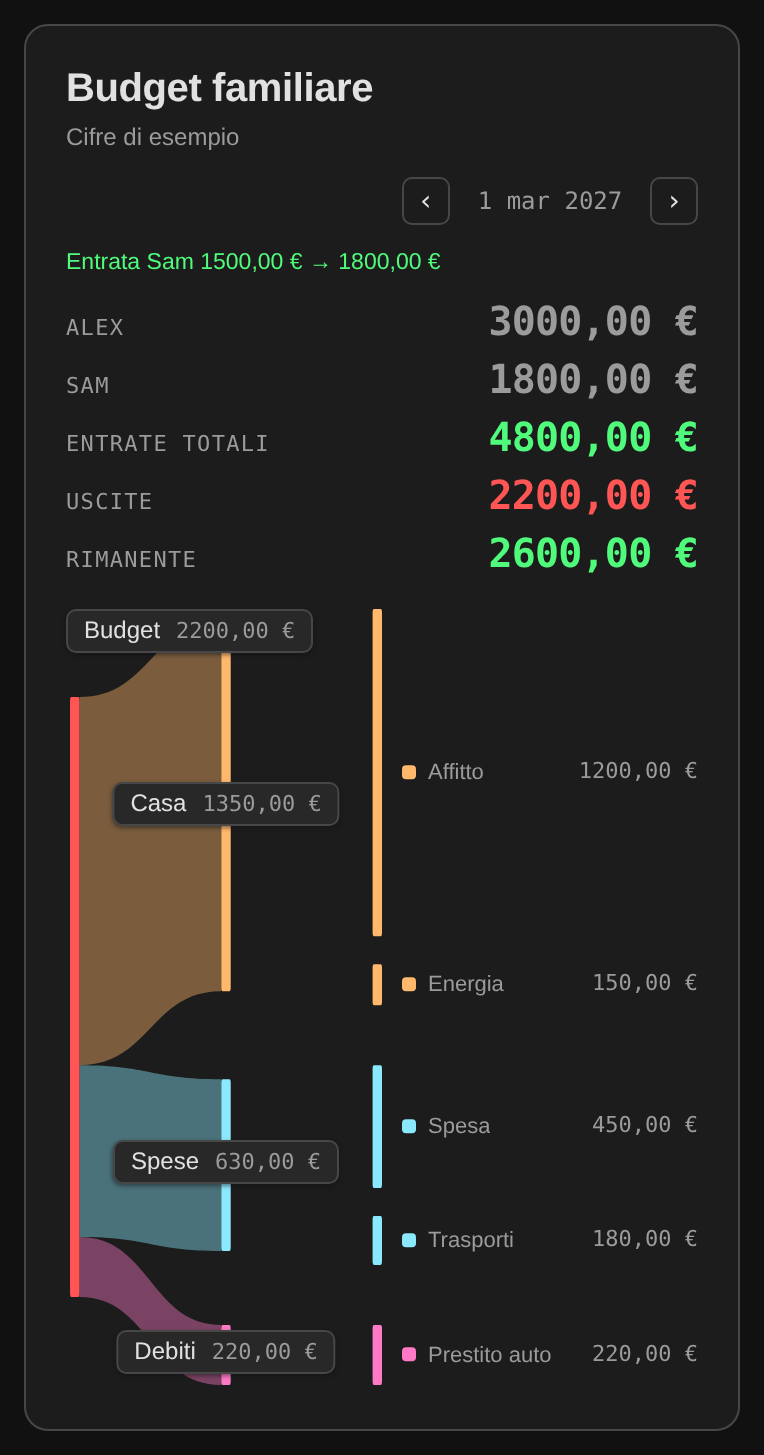
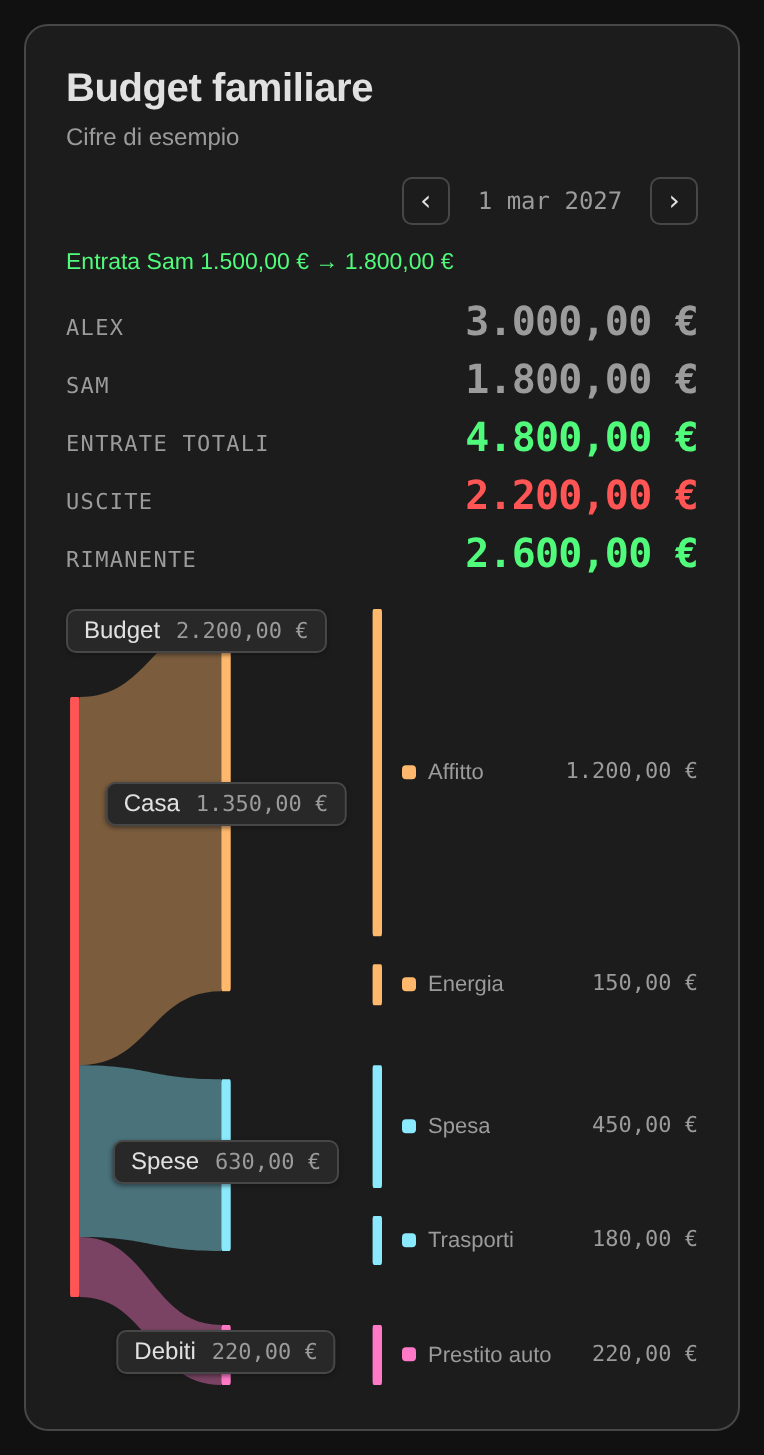
Tidy amounts and CJK rendering
Show the plain currency symbol and group four-digit amounts in every
locale. Declare the card's locale so browsers pick the right CJK glyphs,
keep short CJK titles on one line, and align stat labels across fallback
fonts.

diff --git a/budget-sankey-card.js b/budget-sankey-card.js
@@ -48,7 +48,11 @@ const FONT_MONO = themeVar("font_mono");
 // includes the first render, before `hass` is set.
 const DEFAULT_MONEY = { currency: "GBP", locale: "en-GB" };
 
-const fmt = (v, { currency, locale } = DEFAULT_MONEY) => v.toLocaleString(locale, { style: "currency", currency });
+// "always": locales such as Polish and Italian otherwise group 12 500 but not
+// 1800, which misaligns a column of amounts. narrowSymbol: the card shows one
+// currency, so £ needs no GBP or US$-style disambiguation, and it is shorter.
+const fmt = (v, { currency, locale } = DEFAULT_MONEY) =>
+  v.toLocaleString(locale, { style: "currency", currency, currencyDisplay: "narrowSymbol", useGrouping: "always" });
 
 // Accepts a palette token ("viz-5"), a semantic name ("money-out"), or any raw
 // CSS colour. Tokens keep the budget YAML free of hex codes.
@@ -809,7 +813,9 @@ class BudgetSankeyCard extends HTMLElement {
           overflow: hidden;
         }
         .head { display:flex; align-items:flex-end; justify-content:space-between; gap:16px; margin-bottom:16px; }
-        .title { margin:0; font:600 20px/1.3 ${FONT_DISPLAY}; letter-spacing:-.01em; }
+        /* CJK text can break after any character, so without a floor the stats
+           squeeze a title down to one character per line. */
+        .title { margin:0; min-width:4em; font:600 20px/1.3 ${FONT_DISPLAY}; letter-spacing:-.01em; }
         .side { display:flex; flex-direction:column; align-items:flex-end; gap:10px; }
         .log { margin:0; padding:0; list-style:none; font:500 11.5px/1.45 ${FONT_BODY}; text-align:right; }
         .nav { display:flex; align-items:center; gap:6px; font:500 12px ${FONT_MONO}; color:${VIZ.textSecondary}; }
@@ -822,7 +828,9 @@ class BudgetSankeyCard extends HTMLElement {
         .nav span { min-width:88px; text-align:center; }
         .sub { margin:4px 0 0; font:400 12px/1.3 ${FONT_BODY}; color:${VIZ.textSecondary}; }
         .stats { display:flex; gap:20px; flex-wrap:wrap; justify-content:flex-end; }
-        .totlab { font:500 11px ${FONT_MONO}; letter-spacing:.06em; color:${VIZ.textSecondary}; margin-bottom:4px; text-align:right; }
+        /* Fixed line height: a fallback CJK font is taller, which would drop
+           translated labels below the Latin names beside them. */
+        .totlab { font:500 11px/1.4 ${FONT_MONO}; letter-spacing:.06em; color:${VIZ.textSecondary}; margin-bottom:4px; text-align:right; }
         .tot { font:700 28px ${FONT_MONO}; letter-spacing:-.02em; color:${accent}; font-variant-numeric:tabular-nums; text-align:right; }
         .stats .tot.sm { font-size:22px; }
         .body { display:flex; align-items:stretch; width:100%; }
@@ -879,7 +887,7 @@ class BudgetSankeyCard extends HTMLElement {
           .stats .tot.sm { font-size:20px; }
         }
       </style>
-      <div class="card">
+      <div class="card" lang="${esc(money.locale)}">
         <div class="head">
           <div>
             <h2 class="title">${esc(c.title || t.budget)}</h2>

diff --git a/test/budget-sankey-card.core.test.js b/test/budget-sankey-card.core.test.js
@@ -456,6 +456,22 @@ test("a hass update that leaves the money settings alone does not redraw", () =>
   assert.equal(html(el), "untouched");
 });
 
+test("fmt groups four-digit amounts in every locale", () => {
+  assert.equal(fmt(1800, { currency: "PLN", locale: "pl" }), "1\u00a0800,00\u00a0zł");
+  assert.equal(fmt(1800, { currency: "EUR", locale: "it" }), "1.800,00\u00a0€");
+});
+
+test("fmt uses the plain currency symbol", () => {
+  assert.equal(fmt(1234.5, { currency: "GBP", locale: "pl" }), "1\u00a0234,50\u00a0£");
+  assert.equal(fmt(1234.5, { currency: "USD", locale: "sv" }), "1\u00a0234,50\u00a0$");
+  assert.equal(fmt(1234.5, { currency: "USD", locale: "en-GB" }), "$1,234.50");
+});
+
+test("the card declares its locale for font selection", () => {
+  const el = make(Object.assign(dated(), { locale: "zh-CN" }));
+  assert.match(html(el), /<div class="card" lang="zh-CN">/);
+});
+
 test("the changelog and navigation use the configured locale", () => {
   const el = make(Object.assign(dated(), { currency: "USD", locale: "en-US" }));
   el._step(1);
